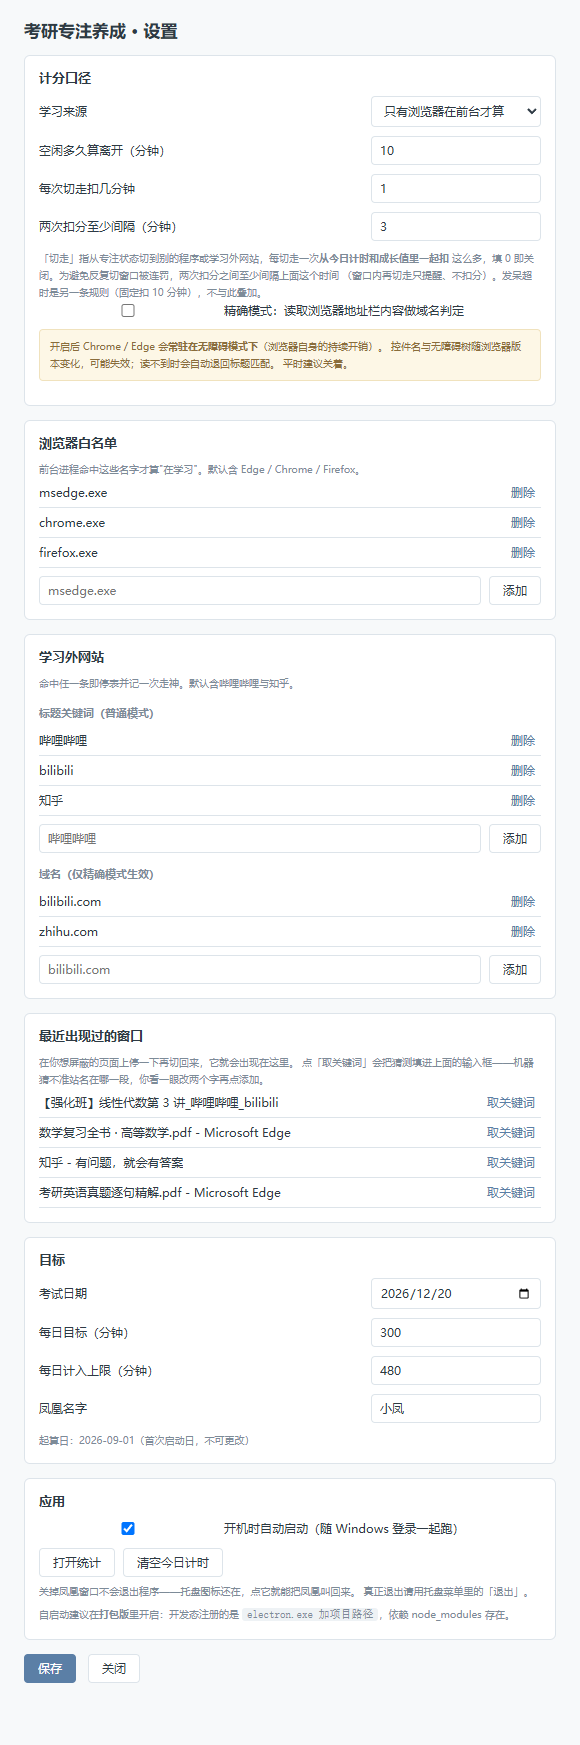
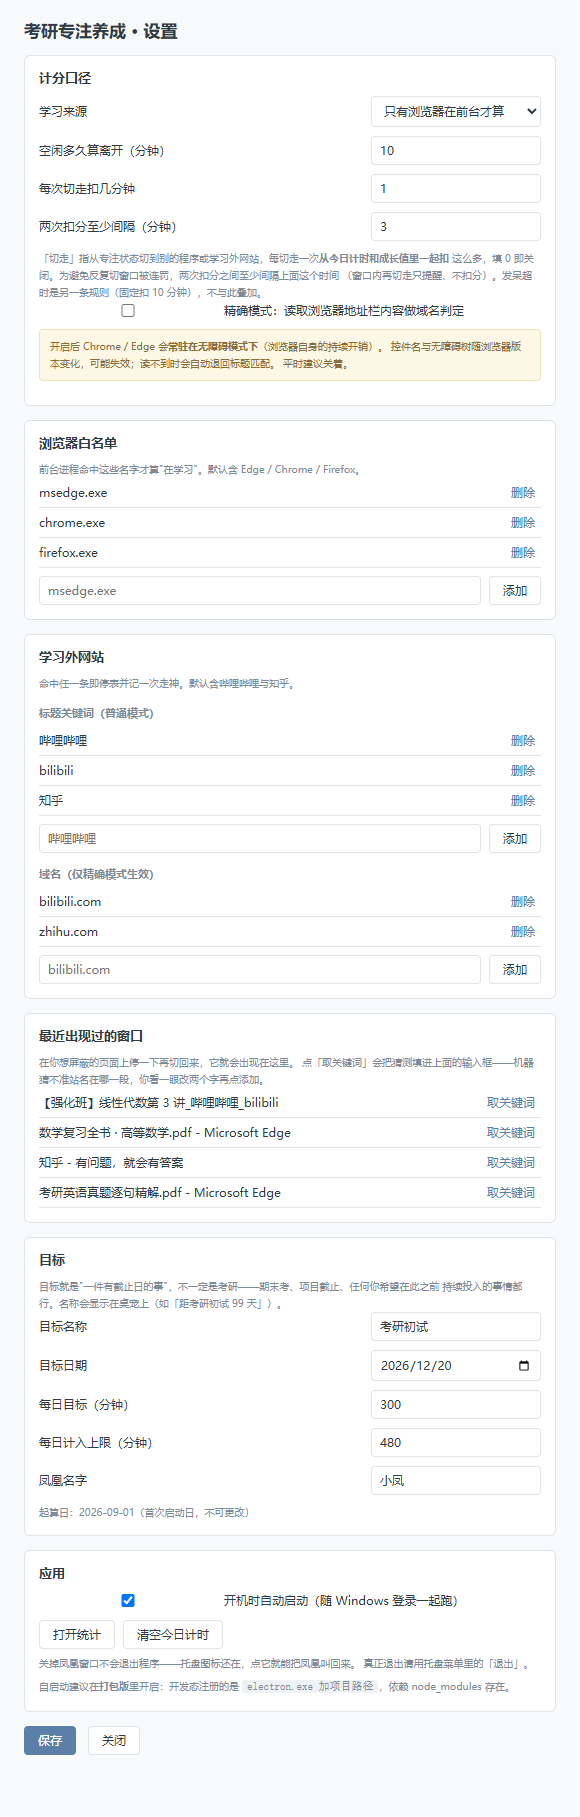
feat: 面板靠近屏幕底部时自动翻到上方；目标名称可自定义
- 固定"面板在蛋下方"会在蛋靠近屏幕底部时把面板切掉。现在主进程按屏幕剩余空间
  决定面板朝向，翻转时把窗口底端对齐到蛋原来的位置，**让蛋停在原地不动**
- 飘字与光环的锚点从窗口坐标改为凤凰本身，翻转后自动跟着走
- 目标不再写死成"考试"：新增「目标名称」，期末考/项目截止/任何有截止日的事都能用，
  桌宠与统计页显示为「距<名称> N 天」

diff --git a/desktop/pet/pet.js b/desktop/pet/pet.js
@@ -34,8 +34,6 @@ const MINI_VIEW = {
   IDLE: { dot: 'off', text: '未开始' },
 };
 
-const HEIGHT = { expanded: 252, collapsed: 140 };
-
 // 每种事件配一个动作，让反馈在事件那一秒就发生
 const REACTION_ANIM = {
   away: 'recoil',
@@ -73,11 +71,13 @@ function setMini(dot, text, timeText) {
   if (timeText !== undefined) $('miniTime').textContent = timeText;
 }
 
-function applyLayout() {
+async function applyLayout() {
   const collapsed = $('bubble').hidden;
   $('mini').hidden = !collapsed;
   $('collapse').textContent = collapsed ? '▸' : '▾';
-  window.pet.setHeight(collapsed ? HEIGHT.collapsed : HEIGHT.expanded);
+  // 主进程按屏幕剩余空间决定面板在蛋的下方还是上方
+  const result = await window.pet.requestLayout(!collapsed);
+  $('stage').classList.toggle('flip', result?.flipped === true);
 }
 
 function render(snapshot) {
@@ -114,8 +114,9 @@ function render(snapshot) {
 
   $('markTime').style.left = `${Math.round(mountain.pTime * 100)}%`;
   $('markYou').style.left = `${Math.round(mountain.pYou * 100)}%`;
+  const target = settings.targetLabel ?? '考试';
   $('altitude').textContent =
-    `海拔 ${Math.round(mountain.pYou * 100)}% · ${deltaText(mountain.deltaHours)} · 距考试 ${mountain.daysLeft} 天`;
+    `海拔 ${Math.round(mountain.pYou * 100)}% · ${deltaText(mountain.deltaHours)} · 距${target} ${mountain.daysLeft} 天`;
 
   const mini = MINI_VIEW[session.status] ?? { dot: 'off', text: session.status };
   setMini(mini.dot, mini.text, clock);
@@ -129,7 +130,6 @@ window.pet.getSnapshot().then(render);
  * 只扣成长值是"安静"的惩罚——感觉不到，就改不掉。
  */
 function react(event) {
-  const stage = $('stage');
   const phoenix = $('phoenix');
   const tone = reactionTone(event);
 
@@ -146,14 +146,14 @@ function react(event) {
     const el = document.createElement('div');
     el.className = `float-label ${tone}`;
     el.textContent = label;
-    stage.append(el);
+    phoenix.append(el); // 锚在凤凰上，面板翻转后也跟着走
     setTimeout(() => el.remove(), 1600);
   }
 
   if (tone === 'good' || event.kind === 'timeout') {
     const ring = document.createElement('div');
     ring.className = `burst-ring ${tone}`;
-    stage.append(ring);
+    phoenix.append(ring);
     setTimeout(() => ring.remove(), 1000);
   }
 

diff --git a/desktop/main.js b/desktop/main.js
@@ -61,6 +61,10 @@ let tray = null;
 let probe = null;
 let urlProbe = null;
 let petBounds = null;
+let petFlipped = false;
+
+/** 面板展开/收起时的窗口尺寸，以及蛋所占的高度带 */
+const LAYOUT = { expanded: 252, collapsed: 140, phoenixBand: 98, edge: 6 };
 let paused = false;
 let disposed = false;
 let stopped = false;
@@ -506,11 +510,43 @@ function registerIpc() {
   ipcMain.handle('pet:open-stats', () => { openStatsWindow(); });
   ipcMain.handle('pet:quit', () => { app.quit(); });
 
-  /** 收起信息面板时把窗口一起收短，避免留一大片透明却会吃掉点击的区域 */
-  ipcMain.handle('pet:set-height', (_event, height) => {
-    if (!petWindow) return;
-    const [width] = petWindow.getSize();
-    petWindow.setSize(width, Math.max(110, Math.min(420, Math.round(Number(height) || 0))));
+  /**
+   * 展开/收起信息面板。
+   *
+   * 固定"面板在蛋下方"会在蛋靠近屏幕底部时把面板切掉，所以下方放不下就翻到上方。
+   * 翻转时**必须让蛋停在原地**——把窗口底端对齐到蛋原来的位置，
+   * 否则一展开凤凰就猛地跳一下。
+   */
+  ipcMain.handle('pet:request-layout', (_event, expanded) => {
+    if (!petWindow) return { flipped: false };
+    const bounds = petWindow.getBounds();
+    const workArea = screen.getDisplayMatching(bounds).workArea;
+    const height = expanded ? LAYOUT.expanded : LAYOUT.collapsed;
+
+    // 蛋当前的屏幕纵坐标：不翻转时在窗口顶部，翻转时在窗口底部
+    const phoenixTop = petFlipped
+      ? bounds.y + bounds.height - LAYOUT.edge - LAYOUT.phoenixBand
+      : bounds.y + LAYOUT.edge;
+
+    if (phoenixTop + height <= workArea.y + workArea.height) {
+      petFlipped = false;
+      petWindow.setBounds({
+        x: bounds.x,
+        y: phoenixTop - LAYOUT.edge,
+        width: bounds.width,
+        height,
+      });
+    } else {
+      petFlipped = true;
+      const y = phoenixTop + LAYOUT.edge * 2 + LAYOUT.phoenixBand - height;
+      petWindow.setBounds({
+        x: bounds.x,
+        y: Math.max(workArea.y, y),
+        width: bounds.width,
+        height,
+      });
+    }
+    return { flipped: petFlipped };
   });
 
   ipcMain.on('pet:show-menu', () => {

diff --git a/test/settings.test.js b/test/settings.test.js
@@ -91,3 +91,34 @@ describe('切走惩罚的节流窗口', () => {
     expect(normalizeSettings({ awayPenaltyWindowMinutes: -1 }, NOW).awayPenaltyWindowMs).toBe(0);
   });
 });
+
+describe('目标名称可自定义（不一定是考研）', () => {
+  it('默认是"考试"', () => {
+    expect(defaultSettings(NOW).targetLabel).toBe('考试');
+    expect(normalizeSettings({}, NOW).targetLabel).toBe('考试');
+  });
+
+  it('可以改成任意名称', () => {
+    expect(normalizeSettings({ targetLabel: '考研初试' }, NOW).targetLabel).toBe('考研初试');
+    expect(normalizeSettings({ targetLabel: '项目截止' }, NOW).targetLabel).toBe('项目截止');
+    expect(normalizeSettings({ targetLabel: '婚礼' }, NOW).targetLabel).toBe('婚礼');
+  });
+
+  it('去掉首尾空白', () => {
+    expect(normalizeSettings({ targetLabel: '  期末考  ' }, NOW).targetLabel).toBe('期末考');
+  });
+
+  it('空白回落默认', () => {
+    expect(normalizeSettings({ targetLabel: '   ' }, NOW).targetLabel).toBe('考试');
+    expect(normalizeSettings({ targetLabel: null }, NOW).targetLabel).toBe('考试');
+  });
+
+  it('过长时截断，避免撑坏桌宠那一行', () => {
+    const long = '一二三四五六七八九十';
+    expect(normalizeSettings({ targetLabel: long }, NOW).targetLabel.length).toBeLessThanOrEqual(8);
+  });
+
+  it('名字字段同样处理', () => {
+    expect(normalizeSettings({ companionName: '  小凤  ' }, NOW).companionName).toBe('小凤');
+  });
+});

diff --git a/src/lib/settings.js b/src/lib/settings.js
@@ -12,6 +12,7 @@ export function defaultSettings(now) {
     watchdogMinutes: 10,
     awayPenaltyMinutes: 1,
     awayPenaltyWindowMinutes: 3,
+    targetLabel: '考试',
     companionName: '小凤',
   };
 }
@@ -19,9 +20,9 @@ export function defaultSettings(now) {
 export function normalizeSettings(raw, now) {
   const d = defaultSettings(now);
   const r = raw ?? {};
-  const name = typeof r.companionName === 'string' && r.companionName.trim() !== ''
-    ? r.companionName.trim()
-    : d.companionName;
+  const text = (value, fallback) => (
+    typeof value === 'string' && value.trim() !== '' ? value.trim() : fallback
+  );
   return {
     examDateMs: parseDayKey(r.examDate ?? d.examDate),
     startDateMs: parseDayKey(r.startDate ?? d.startDate),
@@ -31,6 +32,8 @@ export function normalizeSettings(raw, now) {
     awayPenaltyMs: Math.max(0, (r.awayPenaltyMinutes ?? d.awayPenaltyMinutes)) * MINUTE,
     awayPenaltyWindowMs:
       Math.max(0, (r.awayPenaltyWindowMinutes ?? d.awayPenaltyWindowMinutes)) * MINUTE,
-    companionName: name,
+    // 目标是"某件有截止日的事"，不一定是考研——名称可自定义
+    targetLabel: text(r.targetLabel, d.targetLabel).slice(0, 8),
+    companionName: text(r.companionName, d.companionName),
   };
 }

diff --git a/desktop/settings/settings.js b/desktop/settings/settings.js
@@ -78,6 +78,7 @@ function fill() {
   $('awayPenaltyMinutes').value = Math.round((settings.awayPenaltyMs ?? 0) / 60000);
   $('awayPenaltyWindowMinutes').value = Math.round((settings.awayPenaltyWindowMs ?? 0) / 60000);
   $('examDate').value = dayKey(settings.examDateMs);
+  $('targetLabel').value = settings.targetLabel ?? '考试';
   $('dailyGoalMinutes').value = Math.round(settings.dailyGoalMs / 60000);
   $('dailyCapMinutes').value = Math.round(settings.dailyCapMs / 60000);
   $('companionName').value = settings.companionName;
@@ -107,6 +108,7 @@ async function save() {
     awayPenaltyMinutes: Number($('awayPenaltyMinutes').value),
     awayPenaltyWindowMinutes: Number($('awayPenaltyWindowMinutes').value),
     companionName: $('companionName').value.trim(),
+    targetLabel: $('targetLabel').value.trim() || '考试',
   };
   rules.mode = $('mode').value;
   rules.exactMode = $('exactMode').checked;

diff --git a/desktop/settings/index.html b/desktop/settings/index.html
@@ -82,7 +82,12 @@
 
     <section class="card">
       <h2>目标</h2>
-      <label>考试日期 <input type="date" id="examDate" /></label>
+      <p class="hint">
+        目标就是"一件有截止日的事"，不一定是考研——期末考、项目截止、任何你希望在此之前
+        持续投入的事情都行。名称会显示在桌宠上（如「距考研初试 99 天」）。
+      </p>
+      <label>目标名称 <input type="text" id="targetLabel" maxlength="8" placeholder="考试" /></label>
+      <label>目标日期 <input type="date" id="examDate" /></label>
       <label>每日目标（分钟） <input type="number" id="dailyGoalMinutes" min="1" max="1440" /></label>
       <label>每日计入上限（分钟） <input type="number" id="dailyCapMinutes" min="1" max="1440" /></label>
       <label>凤凰名字 <input type="text" id="companionName" maxlength="12" /></label>

diff --git a/desktop/pet/pet.css b/desktop/pet/pet.css
@@ -60,6 +60,7 @@ html, body {
 .grip:active { cursor: grabbing; }
 
 .phoenix {
+  position: relative;   /* 飘字与光环锚在凤凰上，翻转后自动跟着走 */
   font-size: 60px;
   line-height: 1.1;
   transition: opacity 400ms ease, filter 400ms ease;
@@ -228,10 +229,15 @@ html, body {
   75% { transform: translateX(-3px) rotate(-3deg); }
 }
 
+/* 蛋靠近屏幕底部时，整个面板翻到蛋的上方（主进程决定并告知） */
+#stage.flip { flex-direction: column-reverse; }
+#stage.flip .halo { top: auto; bottom: 2px; }
+#stage.flip .bubble { margin-top: 0; margin-bottom: 6px; }
+
 .float-label {
   position: absolute;
-  top: 34px;
   left: 50%;
+  bottom: 108%;
   z-index: 5;
   padding: 2px 9px;
   border-radius: 999px;
@@ -258,7 +264,7 @@ html, body {
 
 .burst-ring {
   position: absolute;
-  top: 36px;
+  top: 50%;
   left: 50%;
   width: 44px;
   height: 44px;

diff --git a/desktop/stats/stats.js b/desktop/stats/stats.js
@@ -217,7 +217,7 @@ function render({ daily, snapshot }) {
     ['当前连续', `${account?.streak ?? 0} 天`],
     ['最长连续', `${account?.bestStreak ?? 0} 天`],
     ['距今累计走神', `${Object.values(daily).reduce((s, d) => s + (d?.distractions ?? 0), 0)} 次`],
-    ['距考试', `${mountain?.daysLeft ?? '—'} 天`],
+    ['距' + (snapshot?.settings?.targetLabel ?? '考试'), `${mountain?.daysLeft ?? '—'} 天`],
     [
       (mountain?.deltaHours ?? 0) >= 0 ? '进度领先' : '进度欠账',
       `${Math.abs(mountain?.deltaHours ?? 0).toFixed(1)} 小时`,

diff --git a/desktop/preload-pet.js b/desktop/preload-pet.js
@@ -11,6 +11,6 @@ contextBridge.exposeInMainWorld('pet', {
   togglePause: () => ipcRenderer.invoke('pet:toggle-pause'),
   openSettings: () => ipcRenderer.invoke('pet:open-settings'),
   quit: () => ipcRenderer.invoke('pet:quit'),
-  setHeight: (height) => ipcRenderer.invoke('pet:set-height', height),
+  requestLayout: (expanded) => ipcRenderer.invoke('pet:request-layout', expanded),
   showMenu: () => ipcRenderer.send('pet:show-menu'),
 });

diff --git a/README.md b/README.md
@@ -4,13 +4,15 @@
 > 山巅是考试那天，海拔是你攒下的专注。
 
 <p align="center">
-  <img src="docs/screenshots/pet.png" width="200" alt="桌宠" />
-  &nbsp;&nbsp;&nbsp;
-  <img src="docs/screenshots/pet-collapsed.png" width="200" alt="收起后的精简读数" />
+  <img src="docs/screenshots/pet.png" width="180" alt="桌宠" />
+  &nbsp;&nbsp;
+  <img src="docs/screenshots/pet-flipped.png" width="180" alt="靠近屏幕底部时面板翻到上方" />
+  &nbsp;&nbsp;
+  <img src="docs/screenshots/pet-collapsed.png" width="180" alt="收起后的精简读数" />
 </p>
 
 <p align="center">
-  <sub>桌宠（左）与收起后的精简读数（右）—— 收起时只剩一个状态圆点、今日计时和一句话</sub>
+  <sub>默认（面板在蛋下方）· 靠近屏幕底部时自动翻到上方 · 收起后只剩状态圆点与今日计时</sub>
 </p>
 
 ## 下载
@@ -88,8 +90,11 @@
 | 5 | 学飞 | 14 小时 | 11 | 火凰 | 210 小时 |
 | 6 | 飞鸟 | 26 小时 | 12 | 凤凰 | 300 小时 |
 
-**山**：山巅是考试那一天。你的海拔 = 累计专注 ÷（剩余天数 × 每日目标），
+**山**：山巅是目标那一天。你的海拔 = 累计专注 ÷（剩余天数 × 每日目标），
 再与"时间进度"对比，得出领先或欠账多少小时。所以山不是装饰，它每天回答"我进度够不够"。
+
+目标**不一定是考研**——期末考、项目截止、任何有截止日、你希望在此之前持续投入的事都行。
+名称和日期都可自定义，桌宠上会显示成「距考研初赛 99 天」这样。
 
 **精神值**：今日状态，0–100。专注时缓慢回升，超时与走神时下降，只影响凤凰当天的神态，不影响阶段。
 
@@ -132,6 +137,7 @@
 | 按住凤凰拖动 | 移动位置（位置会记住） |
 | 点 `▾` | 收起 / 展开信息面板 |
 | 点 `⋯` | 打开菜单（暂停 / 设置 / 统计 / 退出） |
+| 把蛋放到屏幕底部再展开 | 面板自动翻到蛋的**上方**，且蛋停在原地不动——不会为了腾地方而跳一下 |
 | 拖到副屏后拔掉显示器 | 下次启动会自动挪回主屏，不会"找不回来" |
 
 ## 从源码运行 / 打包
@@ -205,7 +211,7 @@ test/ desktop/test/       单元测试
 npm test
 ```
 
-293 个用例，覆盖共享核心、判定分层、文件存储、探针解析、样本映射、时段合并与跨天切分、
+299 个用例，覆盖共享核心、判定分层、文件存储、探针解析、样本映射、时段合并与跨天切分、
 反馈推导、自身进程识别、窗口位置校正。纯逻辑与浏览器 API 严格分离，所以都能在 node 下直接跑。
 
 ## 已知限制
